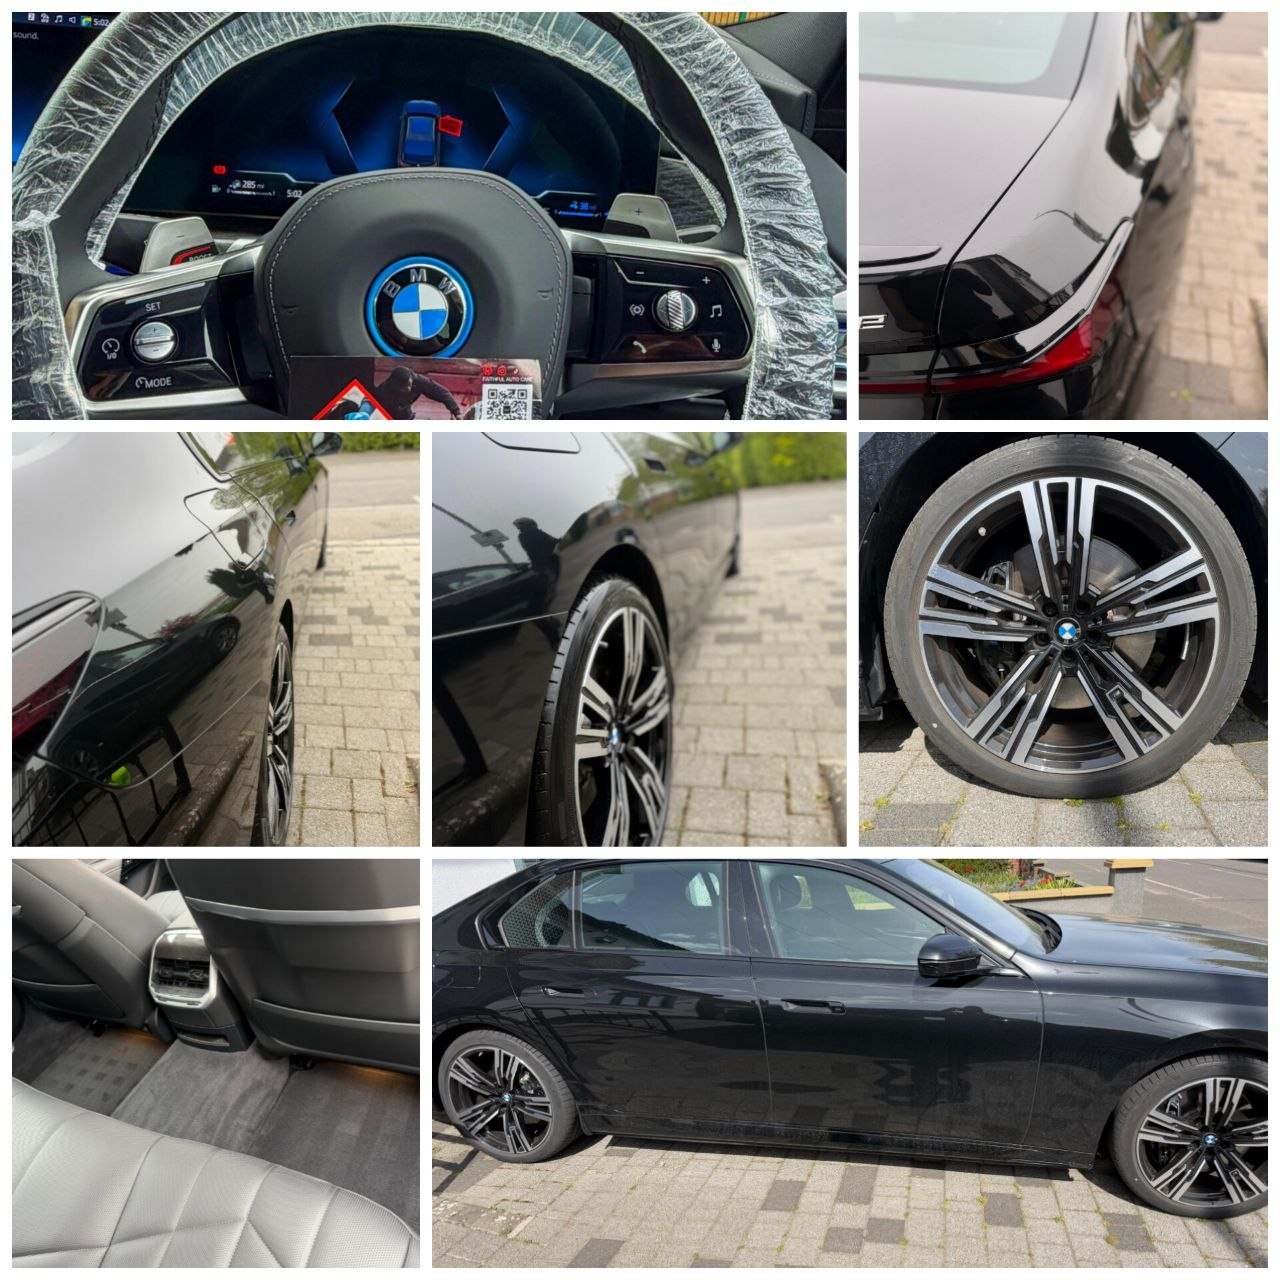
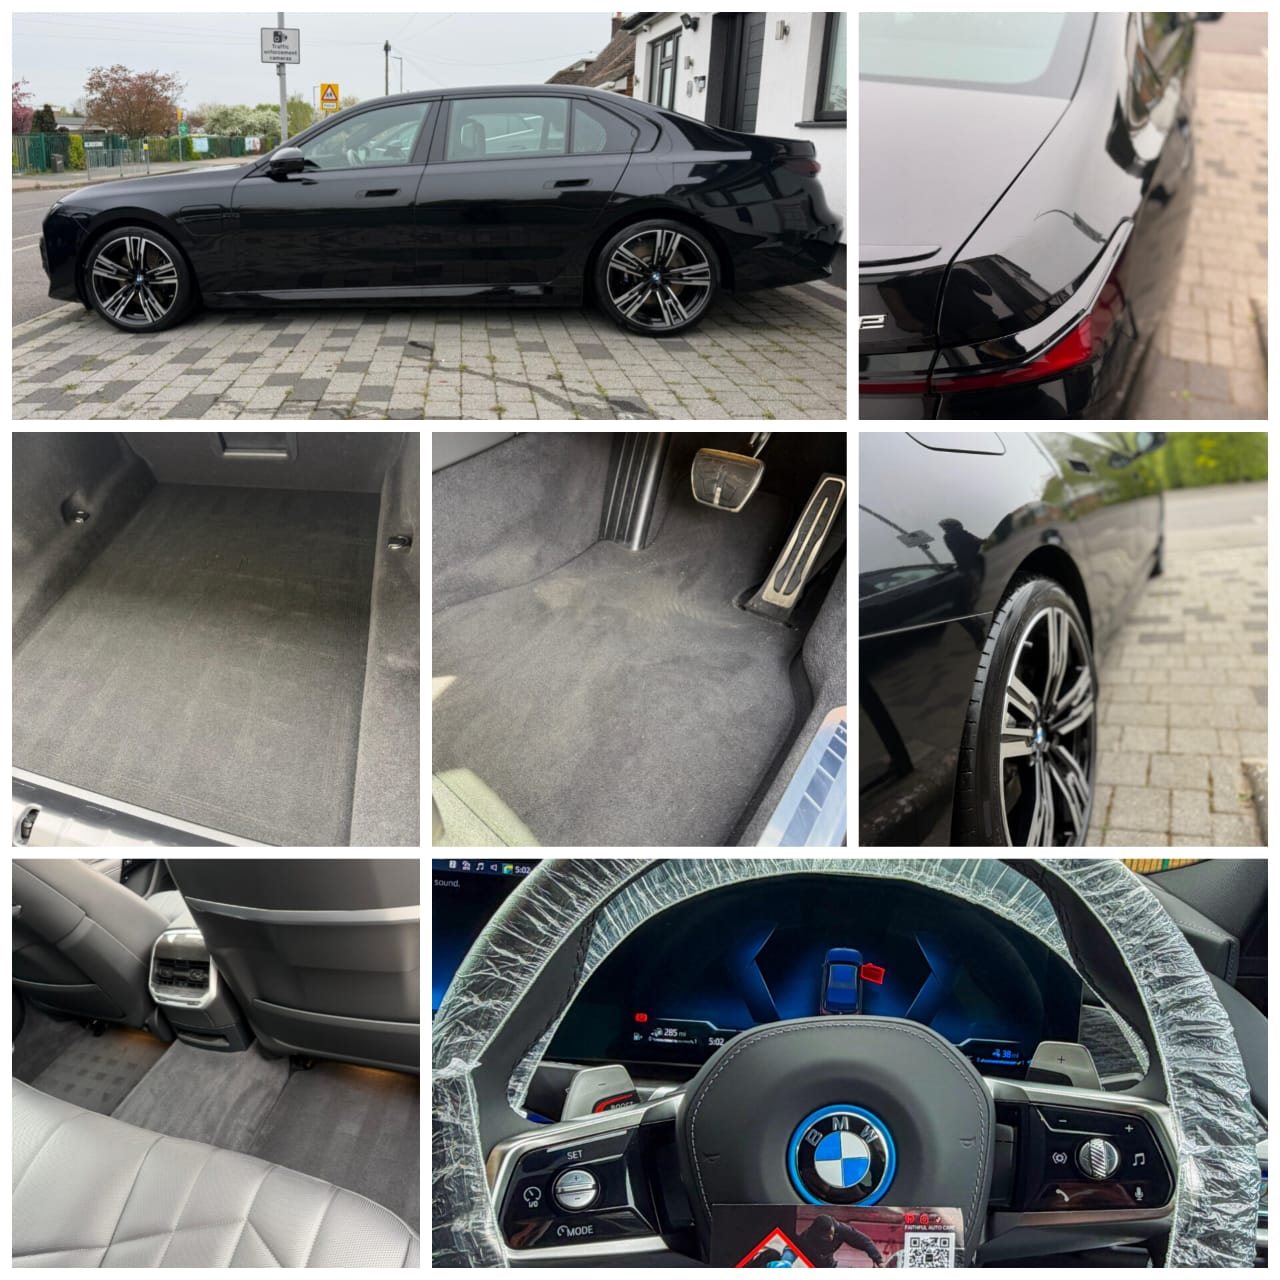
updated photos

diff --git a/src/sections/BeforeAfterSection.tsx b/src/sections/BeforeAfterSection.tsx
@@ -18,6 +18,10 @@ const galleryImages: GalleryImage[] = [
     src: "/blackCar2.jpg"
   },
   {
+    id: 3,
+    src: "/blackCar1.jpg"
+  },  
+  {
     id: 4,
     src: "/BeforeAfter4.PNG"
   },
@@ -55,10 +59,6 @@ const galleryImages: GalleryImage[] = [
   },
   {
     id: 13,
-    src: "/blackCar1.jpg"
-  },
-  {
-    id: 14,
     src: "/BeforeAfter2.PNG"
   },
 
